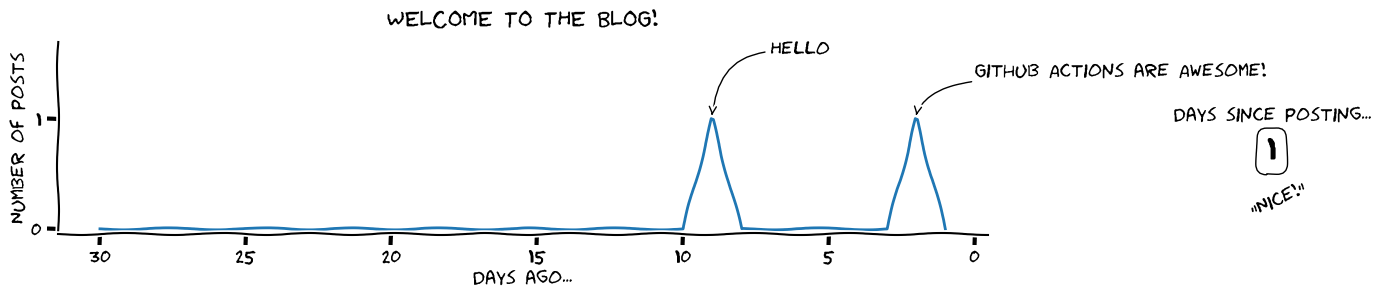
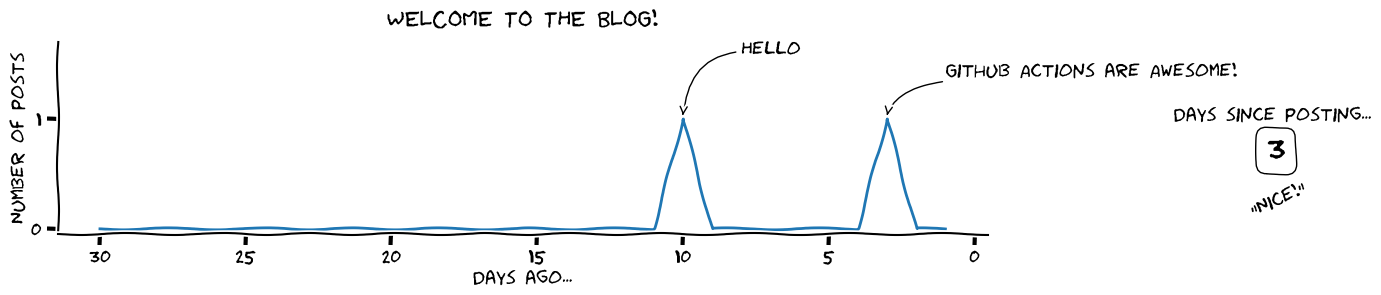
deploy: fcc25b05e98e4a80dcb2604ec00a1832124e2543

diff --git a/2021/02/27/Hello.html b/2021/02/27/Hello.html
@@ -112,8 +112,8 @@ window.onload = wrap_img;
 <div class="cell border-box-sizing text_cell rendered"><div class="inner_cell">
 <div class="text_cell_render border-box-sizing rendered_html">
 <p>Testing 1, 2, 3... Is anyone out there? Hello to anyone reading this and welcome to this blog. I intend to write here semi-regularly covering various topics in the data science space, as well as deep learning.</p>
-<p>I am a data scientist at a FTSE 100 company, and do lots of various things covering a wide range of data science techniques but not so much deep learning.</p>
-<p>I really enjoy deep learning and as you can see on my GitHub page I have done some projects in the past using deep learning techniques, such as:</p>
+<p>I am a data scientist at an FTSE 100 company, and do lots of various things covering a wide range of data science techniques but not so much deep learning.</p>
+<p>I really enjoy deep learning and as you can see in the past I have done some projects in the past using deep learning techniques, such as:</p>
 <ul>
 <li><a href="https://github.com/jc639/pytorch-handwritingCTC">handwriting recognition</a></li>
 <li><a href="https://github.com/jc639/pytorch-CharRNN">character RNN</a></li>

diff --git a/scripts/make_header.py b/scripts/make_header.py
@@ -113,7 +113,7 @@ def filter_titles(post_titles: list, deltas: list, cutoff=-30):
     for title, delta in zip(post_titles, deltas):
         if delta > cutoff:
             filtered_titles.append(title)
-            filtered_deltas.append(delta)
+            filtered_deltas.append(delta - 1)
     sorted_pairs = sorted(zip(filtered_titles, filtered_deltas), key=lambda x: x[1])
     tuples = zip(*sorted_pairs)
     filtered_titles, filtered_deltas = [list(tup) for tup in tuples]
@@ -164,7 +164,7 @@ def line_plot(post_titles: list, deltas: list, cutoff=-30):
                 transform=ax.transAxes)
         bbox_props = dict(boxstyle="round", fc="white", ec="black")
         if len(deltas) > 0:
-            last_post_days = str(abs(deltas[-1]) - 1)
+            last_post_days = str(abs(deltas[-1]))
         else:
             last_post_days = '+' + str(abs(cutoff))
         ax.text(1.3, 0.4, last_post_days, bbox=bbox_props, transform=ax.transAxes,
